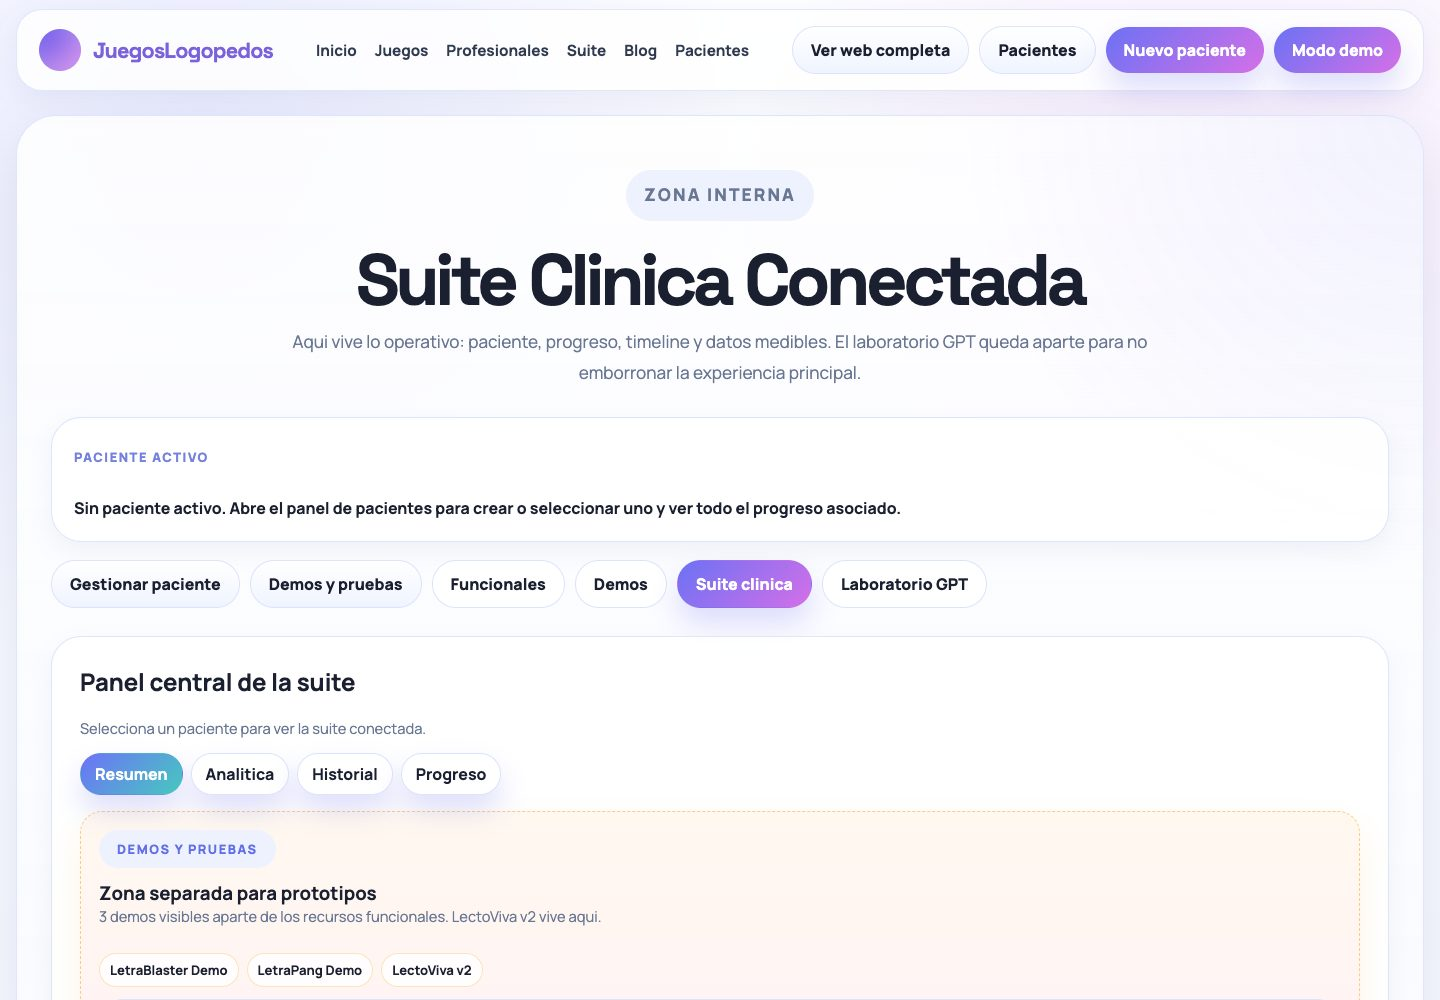
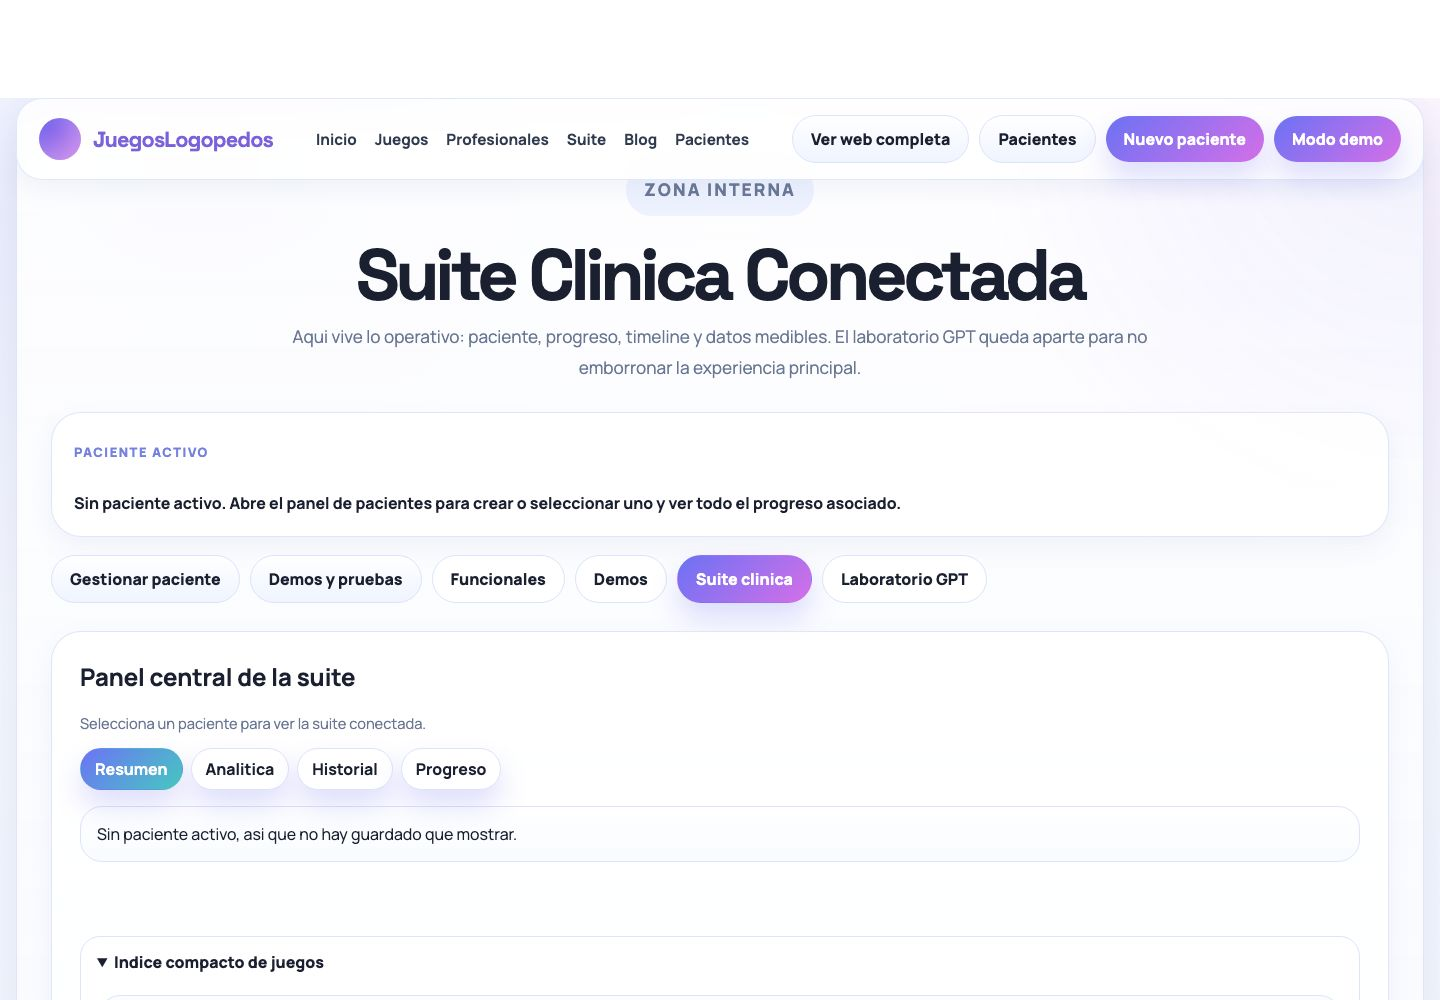
Afinar accesos medibles de la suite

diff --git a/LANDING_TODO_LOGOPED_IA.html b/LANDING_TODO_LOGOPED_IA.html
@@ -155,7 +155,10 @@ const ITEMS = [
    desc:"La suite que faltaba destacar: demo operativa con login local, pacientes, juegos/herramientas, captura de mediciones, timeline, analítica, evolución por intentos, resultados por paciente y panel de seguimiento. Es la capa de intervención/evaluación que mide lo que ocurre en sesión. También queda enlazada la ruta oficial de Academia (/suite), que puede pedir login.",
    tags:["Suite","medición","pacientes","resultados","analytics","localStorage"], links:[
      {t:"VER demo pública sin login",u:"codex-assets/academia-suite-medible/index.html",p:1},
-     {t:"Captura/guardar medición",u:"codex-assets/academia-suite-medible/resource-player.html",p:0},
+     {t:"Erre que Erre medible",u:"codex-assets/academia-suite-medible/resource-player.html?activity=poe-erre-que-erre-erre-directa",p:0},
+     {t:"Letra Crush medible",u:"codex-assets/academia-suite-medible/resource-player.html?activity=poe-letra-crush",p:0},
+     {t:"S/Z medible",u:"codex-assets/academia-suite-medible/resource-player.html?activity=poe-midiendo-con-la-s-y-la-z-definitivo",p:0},
+     {t:"Anamnesis medible",u:"codex-assets/academia-suite-medible/resource-player.html?activity=anamnesis-ia",p:0},
      {t:"VER en Academia /suite",u:"https://academia-logoped-ia.vercel.app/suite",p:0}],
    path:"/Users/joseaserraf/Desktop/ACADEMIA MEMBRESIA LOGOPED-IA DESDE CENTRO/public/suite"},
   {cat:"Suite", emoji:"🧩", title:"Logoped-IA Suite — juegos abribles", status:"repo",

diff --git a/tmp_bitacora_compartida.md b/tmp_bitacora_compartida.md
@@ -1066,6 +1066,34 @@ Estado: [PARA_CODEX HECHO] [PARA_CLAUDE INFO]
 
 Fecha: 2026-07-20
 Agente: Codex Desktop
+Proyecto: Suite clinica medible — comprobacion de juegos que no cargaban
+
+Contexto:
+- Jose detecta en captura que `resource-player.html?activity=poe-erre-que-erre-erre-directa` mide, pero el juego aparecia como 404 dentro del iframe.
+
+Hecho:
+- Verificado en publico que el iframe de `resource-player` para `poe-erre-que-erre-erre-directa` resuelve a:
+  `./POE/erre%20que%20erre%20erre%20directa/index.html`
+- Verificado que la ruta directa en GitHub Pages devuelve 200:
+  `codex-assets/academia-suite-medible/POE/erre%20que%20erre%20erre%20directa/index.html`
+- Actualizada la tarjeta `Suite clinica medible — pacientes, resultados y juegos` para incluir accesos directos medibles:
+  - Erre que Erre medible
+  - Letra Crush medible
+  - S/Z medible
+  - Anamnesis medible
+- Generada/actualizada captura reconocible de la Suite:
+  `codex-assets/screenshots/suite-clinica-medible-pacientes-resultados-y-juegos.jpg`
+
+Nota:
+- La suite medible tiene catalogadas unas 40 actividades en `content/activity-catalog.generated.json`; las primeras de prioridad alta incluyen Letra Crush, Erre que Erre, evaluacion/anamnesis, chatbot familias, 194RRR, Kaboom, S/Z y Karaoke Tartamudez.
+- Si vuelve a verse 404 en navegador, puede ser cache vieja de Pages o una copia distinta de `resource-player`; la version publicada actualmente apunta relativo, no a `/POE/...`.
+
+Estado: [PARA_CODEX HECHO] [PARA_CLAUDE INFO]
+
+---
+
+Fecha: 2026-07-20
+Agente: Codex Desktop
 Proyecto: Auditoria GitHub repos sin Pages — VocalClinic, curso online y privados localizados
 
 Contexto:
